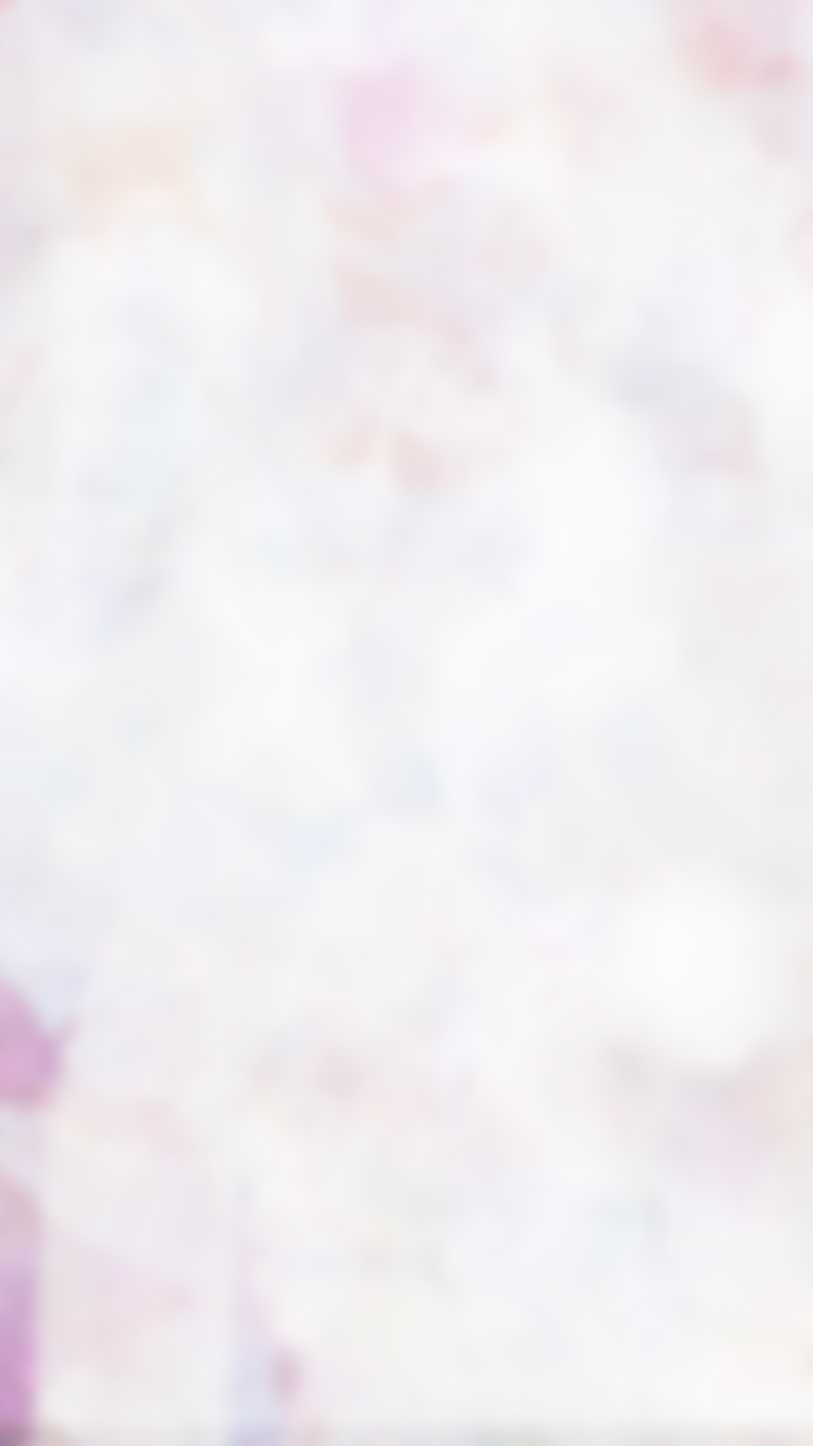
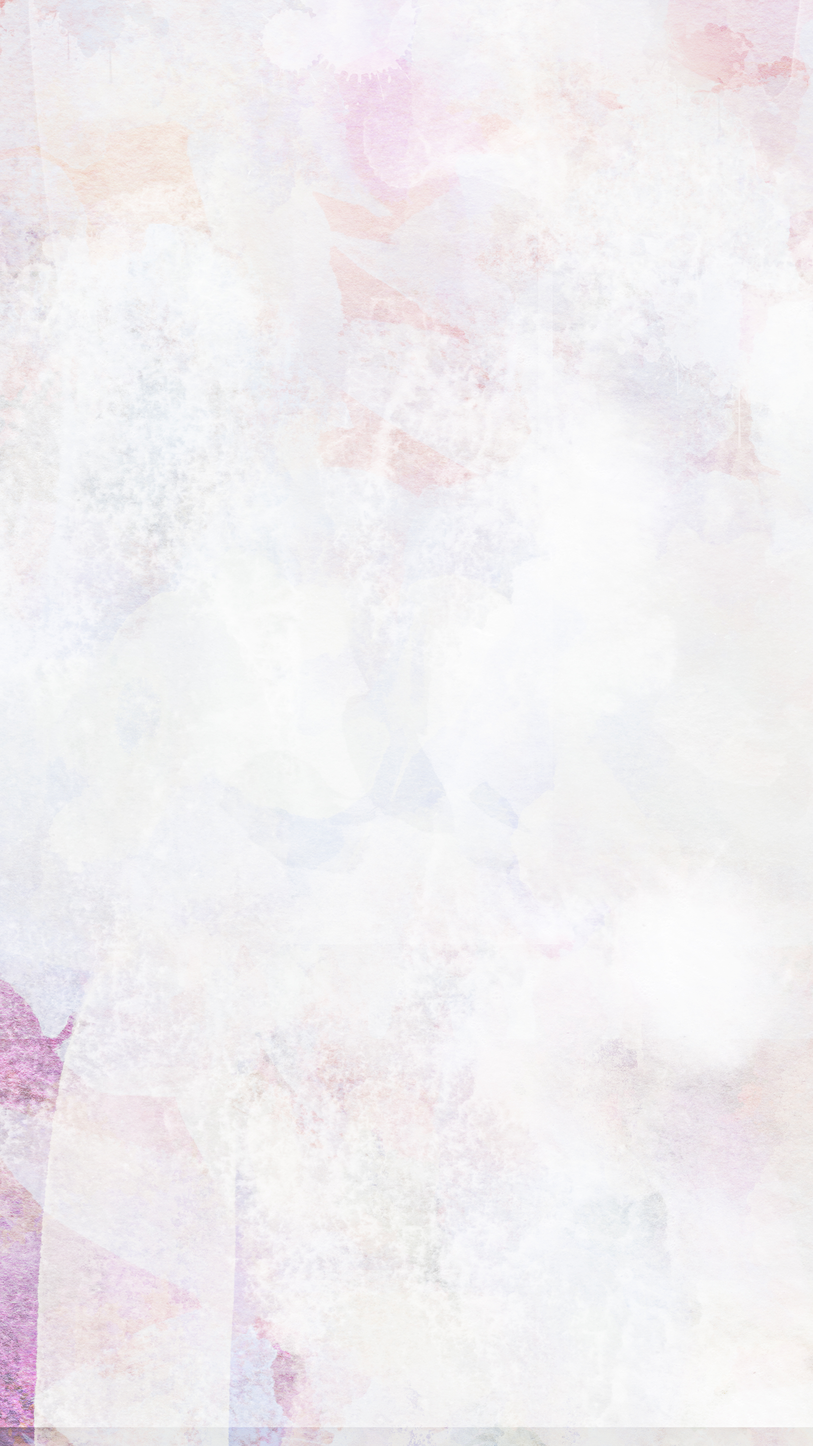
c

Changed region(s): [[0.0, 0.8386, 0.0625, 1.0], [0.0, 0.6833, 0.0938, 0.7764], [0.3438, 0.9317, 0.375, 0.9628]]

diff --git a/_layouts/about.html b/_layouts/about.html
@@ -19,8 +19,8 @@
   <body>
 	{% include partials/navigation/nav-about.html %}
 	<!-- Page content -->
-	<div class="page cover-page" id="page" style="background-image: url('{{ site.baseurl }}/img/about.jpg');">
-		<header id="page-header" style="background-image: url('{{ site.baseurl }}/img/about2.jpg');">
+	<div class="page cover-page" id="page" style="background-image: url('{{ site.baseurl }}/img/about-blur.jpg');">
+		<header id="page-header" style="background-image: url('{{ site.baseurl }}/img/about.jpg');">
 			<div>
 				<h3>BIO</h3>
 			</div>

diff --git a/hipertextos/styles/adding.css b/hipertextos/styles/adding.css
@@ -18,6 +18,12 @@
 	background-repeat: no-repeat;
 	border:none;
 }
+.cover-page #page-header {position:sticky;
+	background-position: top center;
+	background-attachment: fixed;
+	background-size: cover;
+	background-repeat: no-repeat;
+}
 
 /* Classic Gallery */ 
 .listed section {	-webkit-column-count: 4;-moz-column-count: 4;column-count: 4;border:none;line-height:2em;font-size:0.2em;}
